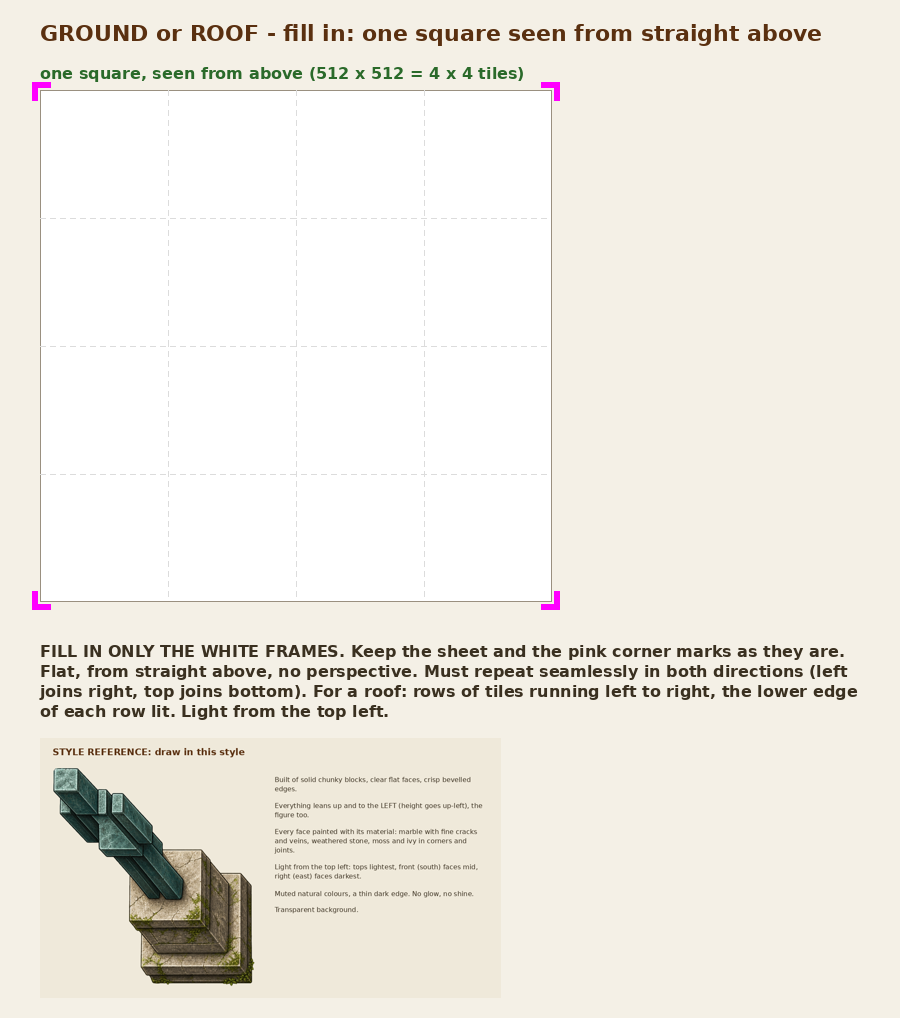
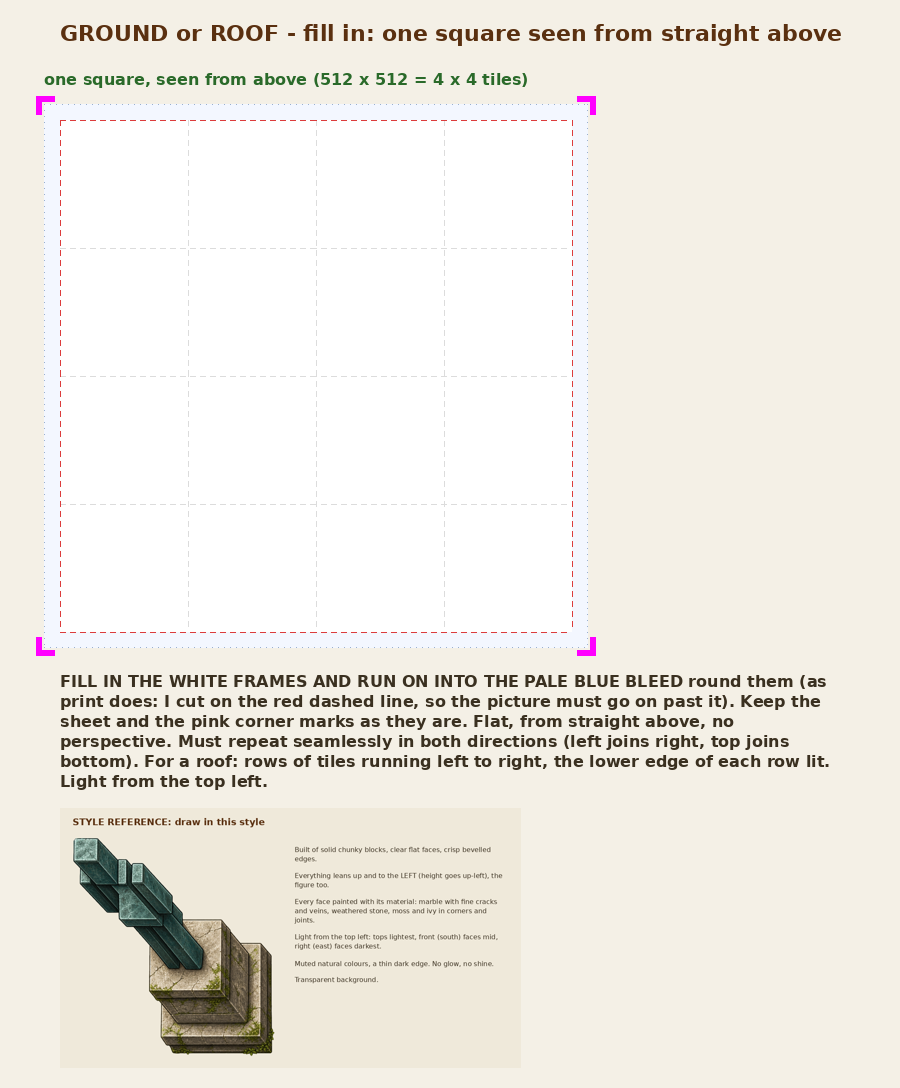
Templates with a bleed, as print has: the picture runs on past the cut line, so a cut never shows the sheet
- Every frame has a pale blue bleed of 16 px round it and a red dashed cut line; the corner marks sit outside the bleed. cut-template.py cuts exactly on the line.

Claude-Session: https://claude.ai/code/session_01Lw2Vav9Qw5pJuXqDDXJFCM

Changed region(s): [[0.0311, 0.0, 0.9644, 0.9745]]

diff --git a/tests/make-templates.py b/tests/make-templates.py
@@ -21,22 +21,29 @@ def text(d,x,y,w,t,font=Fs,fill='#3a3020'):
         if d.textlength(line+wd,font=font)>w: d.text((x,y),line,fill=fill,font=font); line=''; y+=20
         line+=wd+' '
     d.text((x,y),line,fill=fill,font=font); return y+26
+BLEED=16
 def page(name,title,frames,rules,W=None):
     """frames: list of (label, w, h, guide fn) laid out left to right; rules: text"""
-    pad=40; gap=50
+    pad=60; gap=80
     W=W or max(900,pad*2+sum(f[1] for f in frames)+gap*(len(frames)-1)); H=1000
     c=Image.new('RGB',(W,2200),BG); d=ImageDraw.Draw(c)
     d.text((pad,20),title,fill='#5a3010',font=F)
-    x=pad; y=90; rowh=0
+    x=pad; y=120; rowh=0
     for lab,w,h,guide in frames:
-        if x+w>W-pad: x=pad; y+=rowh+70; rowh=0
-        d.text((x,y-26),lab,fill='#2a6a2a',font=Fm)
-        d.rectangle([x,y,x+w-1,y+h-1],fill='#ffffff',outline='#9a9080')
+        if x+w>W-pad: x=pad; y+=rowh+100; rowh=0
+        d.text((x-BLEED,y-34-BLEED),lab,fill='#2a6a2a',font=Fm)
+        B=BLEED  # the bleed: draw on past the cut line into this band, as print does, so a cut never shows the sheet
+        d.rectangle([x-B,y-B,x+w-1+B,y+h-1+B],fill='#f3f7ff')
+        for k in range(x-B,x+w+B,6): d.point((k,y-B),fill='#9ab0d0'); d.point((k,y+h-1+B),fill='#9ab0d0')
+        for k in range(y-B,y+h+B,6): d.point((x-B,k),fill='#9ab0d0'); d.point((x+w-1+B,k),fill='#9ab0d0')
+        d.rectangle([x,y,x+w-1,y+h-1],fill='#ffffff')
         if guide: guide(d,x,y,w,h)
-        marks(d,x-8,y-8,x+w+7,y+h+7)
+        dash(d,(x,y),(x+w,y),(220,60,60),1); dash(d,(x,y+h),(x+w,y+h),(220,60,60),1)   # the cut line
+        dash(d,(x,y),(x,y+h),(220,60,60),1); dash(d,(x+w,y),(x+w,y+h),(220,60,60),1)
+        marks(d,x-8-B,y-8-B,x+w+7+B,y+h+7+B)
         x+=w+gap; rowh=max(rowh,h)
     y+=rowh+40
-    y=text(d,pad,y,W-2*pad,'FILL IN ONLY THE WHITE FRAMES. Keep the sheet and the pink corner marks as they are. '+rules,font=Fm)
+    y=text(d,pad,y,W-2*pad,'FILL IN THE WHITE FRAMES AND RUN ON INTO THE PALE BLUE BLEED round them (as print does: I cut on the red dashed line, so the picture must go on past it). Keep the sheet and the pink corner marks as they are. '+rules,font=Fm)
     c.paste(card,(pad,y+10)); c=c.crop((0,0,W,y+card.height+30)); c.save(OUT+name+'.png'); print(name, c.size)
 
 # 1. a wall: its face (4 tiles, straight on) and its top (seen from above)

diff --git a/tests/cut-template.py b/tests/cut-template.py
@@ -35,7 +35,7 @@ def frames(img):
         bl = [c for c in corners['bl'] if abs(c[0] - x0) < 6 * s and c[1] > y0]
         if not tr or not bl: continue
         x1 = min(tr)[0]; y1 = min(bl, key=lambda c: c[1])[1]
-        m = 8 * s                                                   # (the marks sit 8 px outside the frame)
+        m = (8 + 16) * s                                            # (the marks sit 8 px outside the bleed, 16 px round the frame)
         rects.append((x0 + m, y0 + m, x1 - m + 1, y1 - m + 1))
     return sorted(rects, key=lambda r: (round(r[1] / 60), r[0]))
 
@@ -67,9 +67,7 @@ if __name__ == '__main__':
     img = Image.open(src)
     rects, sizes = frames(img), SIZES[kind]
     for k, ((x0, y0, x1, y1), (w, h)) in enumerate(zip(rects, sizes)):
-        # (inside the frame's own outline: a couple of the sheet's pixels in from its edge, so no frame line comes along)
-        t = max(2, round((x1 - x0) / w * 2))
-        box = (round(x0) + t, round(y0) + t, round(x1) - t, round(y1) - t)
+        box = (round(x0), round(y0), round(x1), round(y1))           # (the cut line: the picture runs on past it into the bleed)
         piece = img.crop(box).resize((w, h), Image.LANCZOS)
         if kind not in ('wall', 'ground'): piece = clean(piece)
         if kind == 'wall': piece = seamless(piece, both=False)

diff --git a/docs/templates/README.md b/docs/templates/README.md
@@ -1,6 +1,7 @@
 # Fill-in templates
 
-Five sheets, one per kind of picture. Fill in only the white frames, keep the pink corner marks, and send the sheet
+Sheets, one per kind of picture. Fill in the white frames and run on into the pale blue bleed round them (as print
+does: the cut is on the red dashed line, so the picture always goes on past it), keep the pink corner marks, and send the sheet
 back; `python3 tests/cut-template.py <filled.png> <kind> <folder>` cuts each frame out at its exact size, even when the
 sheet came back scaled. Every sheet carries the style card (the founder's statue: `docs/style-reference.png`).
 
